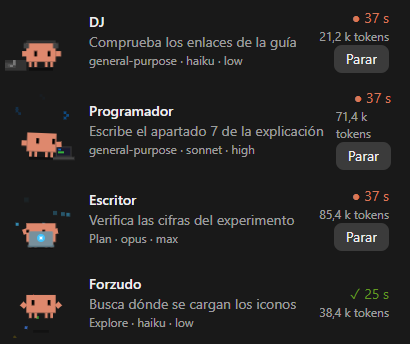
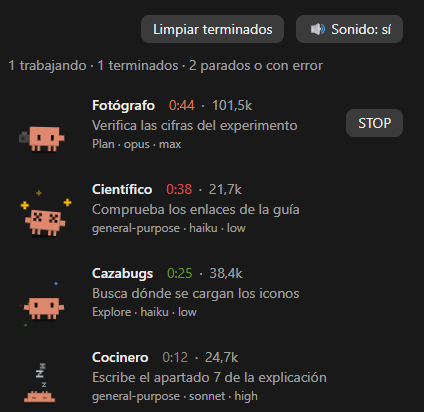
Equipo 0.4.1: fila más estrecha, con el tiempo como un cronómetro y los tokens en corto junto al nombre, botón STOP y captura nueva del panel

diff --git a/hooks/register.tsx b/hooks/register.tsx
@@ -42,16 +42,23 @@ const nombreDe = (id: string) => NOMBRES.get(id) ?? 'Clawd'
 const modeloCorto = (modelo: string) =>
   /opus/i.test(modelo) ? 'opus' : /sonnet/i.test(modelo) ? 'sonnet' : /haiku/i.test(modelo) ? 'haiku' : /fable/i.test(modelo) ? 'fable' : modelo
 
-const duracion = (ms: number) => {
-  const s = Math.max(0, Math.round(ms / 1000))
-  if (s < 60) return `${s} s`
-  const m = Math.floor(s / 60)
-  if (m < 60) return `${m} min ${String(s % 60).padStart(2, '0')} s`
-  return `${Math.floor(m / 60)} h ${String(m % 60).padStart(2, '0')} min`
+// An agent's time as a stopwatch reads it, short so the panel can stay narrow: «0:45», «12:05», «1:03:12».
+const cronometro = (ms: number) => {
+  const s = Math.max(0, Math.floor(ms / 1000))
+  const h = Math.floor(s / 3600)
+  const m = Math.floor((s % 3600) / 60)
+  const segundos = String(s % 60).padStart(2, '0')
+  return h > 0 ? `${h}:${String(m).padStart(2, '0')}:${segundos}` : `${m}:${segundos}`
 }
 
-const miles = (n: number) =>
-  n >= 1_000_000 ? `${(n / 1_000_000).toFixed(1).replace('.', ',')} M` : n >= 1000 ? `${(n / 1000).toFixed(1).replace('.', ',')} k` : String(n)
+// A token count in short: «850», «354,6k», «1,2M».
+const compacto = (n: number) =>
+  n >= 999_950 ? `${(n / 1_000_000).toFixed(1).replace('.', ',')}M` : n >= 1000 ? `${(n / 1000).toFixed(1).replace('.', ',')}k` : String(n)
+
+// Between an agent's name and its time, an em space, and around the dot before its tokens, en spaces: wider than plain
+// spaces, so the three stand apart, and no surface folds them.
+const ESPACIO = ' '
+const ANTES_TOKENS = ' · '
 
 type Uso = { input_tokens: number; output_tokens: number; cache_read_input_tokens: number; cache_creation_input_tokens: number }
 // As Claude Code counts an agent's tokens: what its last request carried and produced.
@@ -775,37 +782,46 @@ export const register: Register = on => {
     const otros = lista.length - trabajando - terminados
     const resumen = [`${trabajando} trabajando`, `${terminados} terminados`, ...(otros > 0 ? [`${otros} parados o con error`] : [])].join(' · ')
 
-    const fila = (a: Agente) => (
-      <Box key={`fila-${a.id}`} flexDirection="row" alignItems="center" gap="sm">
-        {Svg ? (
-          <Svg source={dibujo(a)} alt={nombreDe(a.profesion)} width={LADO_PANEL} height={LADO_PANEL} isInteractive={true} />
-        ) : (
-          <Text color={COLOR[a.estado]}>{MARCA[a.estado]}</Text>
-        )}
-        <Box flexDirection="column" flexGrow={1} flexShrink={1}>
-          <Text weight="medium" wrap="truncate-end">
-            {nombreDe(a.profesion)}
-          </Text>
-          <Text dimColor wrap="truncate-end">
-            {a.descripcion}
-          </Text>
-          <Text dimColor size="caption" wrap="truncate-end">
-            {[a.tipo, a.modelo, a.esfuerzo].filter(Boolean).join(' · ')}
-          </Text>
-        </Box>
-        <Box flexDirection="column" alignItems="flex-end">
-          <Text color={COLOR[a.estado]}>
-            {MARCA[a.estado]} {duracion((a.fin ?? ahora) - a.inicio)}
-          </Text>
-          <Text dimColor size="caption">
-            {tokensVistos(a, ahora) > 0 ? `${miles(tokensVistos(a, ahora))} tokens` : 'sin tokens aún'}
-          </Text>
+    // One agent: its Clawd; on the first line its name, its time in the colour of its state and its tokens; then its task;
+    // then its type, model and effort. On the right there is only a small stop button, while it works. Nothing else asks
+    // for width, so the panel can be as narrow as wanted, and each line is cut at its end, the tokens first. The time's
+    // figures are all of one width, so the line does not shake as the seconds pass. The Clawd's pose and the time's colour
+    // tell the state; on the terminal, which draws no SVG, the mark in the Clawd's place does.
+    const fila = (a: Agente) => {
+      const tokens = tokensVistos(a, ahora)
+      return (
+        <Box key={`fila-${a.id}`} flexDirection="row" alignItems="center" gap="sm">
+          {Svg ? (
+            <Svg source={dibujo(a)} alt={nombreDe(a.profesion)} width={LADO_PANEL} height={LADO_PANEL} isInteractive={true} />
+          ) : (
+            <Text color={COLOR[a.estado]}>{MARCA[a.estado]}</Text>
+          )}
+          <Box flexDirection="column" flexGrow={1} flexShrink={1}>
+            <Text wrap="truncate-end">
+              <Text weight="medium">{nombreDe(a.profesion)}</Text>
+              {ESPACIO}
+              <Text color={COLOR[a.estado]} tabular>
+                {cronometro((a.fin ?? ahora) - a.inicio)}
+              </Text>
+              {tokens > 0 ? (
+                <Text dimColor tabular>
+                  {`${ANTES_TOKENS}${compacto(tokens)}`}
+                </Text>
+              ) : null}
+            </Text>
+            <Text dimColor wrap="truncate-end">
+              {a.descripcion}
+            </Text>
+            <Text dimColor size="caption" wrap="truncate-end">
+              {[a.tipo, a.modelo, a.esfuerzo].filter(Boolean).join(' · ')}
+            </Text>
+          </Box>
           {a.estado === 'trabajando' && !a.workflow ? (
-            <Button key={`parar-${a.id}`} label="Parar" onPress={() => void (a.demo ? terminaDemo($, a.id, 'parado') : parar($, a.id))} />
+            <Button key={`parar-${a.id}`} label="STOP" onPress={() => void (a.demo ? terminaDemo($, a.id, 'parado') : parar($, a.id))} />
           ) : null}
         </Box>
-      </Box>
-    )
+      )
+    }
 
     const sueltos = lista.filter(a => !a.workflow)
     const orden = (x: Agente, y: Agente) =>
@@ -825,17 +841,23 @@ export const register: Register = on => {
       const ordenados = [...miembros].sort((x, y) => (x.workflow?.indice ?? 0) - (y.workflow?.indice ?? 0))
       return (
         <Box key={`wf-${runId}`} flexDirection="column" gap="xs" borderStyle="round" paddingX={1}>
-          <Box flexDirection="row" justifyContent="space-between" alignItems="center" gap="sm">
-            <Text weight="medium" wrap="truncate-end">
-              {nombre}
+          <Text wrap="truncate-end">
+            <Text weight="medium">{nombre}</Text>
+            {ESPACIO}
+            <Text dimColor={activos === 0} color={activos > 0 ? COLOR.trabajando : undefined} tabular>
+              {cronometro(fin - inicio)}
             </Text>
-            <Text dimColor>{duracion(fin - inicio)}</Text>
-          </Box>
+            {tokens > 0 ? (
+              <Text dimColor tabular>
+                {`${ANTES_TOKENS}${compacto(tokens)}`}
+              </Text>
+            ) : null}
+          </Text>
           <Text dimColor size="caption">
-            {`${activos} trabajando · ${miembros.length - activos} terminados · ${miles(tokens)} tokens`}
+            {`${activos} trabajando · ${miembros.length - activos} terminados`}
           </Text>
           {ordenados.map(fila)}
-          {activos > 0 ? <Button key={`parar-wf-${runId}`} label="Parar workflow" onPress={() => void parar($, runId)} /> : null}
+          {activos > 0 ? <Button key={`parar-wf-${runId}`} label="STOP workflow" onPress={() => void parar($, runId)} /> : null}
         </Box>
       )
     }

diff --git a/hooks/equipo.test.tsx b/hooks/equipo.test.tsx
@@ -32,12 +32,19 @@ test('un agente que arranca sale en el panel con un Clawd y una profesión', asy
   expect((await ui.find({ type: 'Text', text: NOMBRES })) !== undefined).toBe(true)
   expect((await ui.find({ type: 'Text', text: /Explore · haiku/ }))?.text).toBe('Explore · haiku')
   expect((await ui.find({ type: 'Svg' }))?.props.width).toBe(72)
+  // Beside the name, the time in the colour of the state, and no tokens until the agent's first request. On the right,
+  // only a small stop button: no icon but the Clawd.
+  expect((await ui.find({ type: 'Text', text: /^0:00$/ }))?.props.color).toBe('#D97757')
+  expect((await ui.find({ type: 'Text', text: /^ · / })) === undefined).toBe(true)
+  expect((await ui.find({ key: 'parar-a1' }))?.props.label).toBe('STOP')
+  expect((await ui.findAll({ type: 'Svg' })).length).toBe(1)
   await ui.unmount()
 
-  // The terminal draws no SVG: there the Clawd's place holds the agent's mark.
+  // The terminal draws no SVG: there the Clawd's place holds the agent's mark, and the time goes without an icon.
   const terminal = await $.ui.mount({ ...PANEL, surface: 'terminal' })
   expect((await terminal.find({ type: 'Text', text: /Busca dónde se cargan/ })) !== undefined).toBe(true)
   expect((await terminal.find({ type: 'Text', text: /^●$/ }))?.props.color).toBe('#D97757')
+  expect((await terminal.find({ type: 'Text', text: /^0:00$/ }))?.props.color).toBe('#D97757')
   await terminal.unmount()
 })
 
@@ -53,7 +60,9 @@ test('al terminar, la fila pasa a terminado', async ($, on) => {
   await $.turn.complete({ answer: 'hecho', durationMs: 5000, isAborted: false, turnId: 't2', agentId: 'a2', reason: 'answer' })
 
   const ui = await $.ui.mount({ ...PANEL, surface: 'desktop' })
-  expect((await ui.find({ type: 'Text', text: /^✓ / })) !== undefined).toBe(true)
+  // The time takes the green of a finished agent, and the stop button goes.
+  expect((await ui.find({ type: 'Text', text: /^0:00$/ }))?.props.color).toBe('#639922')
+  expect((await ui.find({ key: 'parar-a2' })) === undefined).toBe(true)
   expect((await ui.find({ type: 'Text', text: /0 trabajando · 1 terminados/ })) !== undefined).toBe(true)
   await ui.unmount()
 })
@@ -70,8 +79,41 @@ test('la demo llena el panel con cuatro agentes y terminan solos', async ($, on)
   expect((await ui.find({ type: 'Text', text: /^4 trabajando · 0 terminados$/ })) !== undefined).toBe(true)
   await reloj.advance(70_000)
   expect((await ui.find({ type: 'Text', text: /^0 trabajando · 3 terminados · 1 parados o con error$/ })) !== undefined).toBe(true)
-  expect((await ui.find({ type: 'Text', text: /142,8 k tokens/ })) !== undefined).toBe(true)
+  expect((await ui.find({ type: 'Text', text: /^ · 142,8k$/ })) !== undefined).toBe(true)
+  // The longest demo agent ran 62 seconds.
+  expect((await ui.find({ type: 'Text', text: /^1:02$/ })) !== undefined).toBe(true)
   await ui.unmount()
+})
+
+test('el tiempo de un agente se lee como un cronómetro, también pasada la hora, y sus tokens en corto', async ($, on) => {
+  const reloj = mock.clock(on, { now: 1_000_000 })
+  mock.env(on, { OS: 'Linux' })
+  on('ui.open', () => ({ value: { isPlaced: true } }))
+  on('agent.spawn', () => ({ model: 'claude-haiku-5-5', agentId: 'h1' }))
+  on('turn.step', async function* (_$, e) {
+    return {
+      turnId: e.turnId,
+      index: e.index,
+      answer: '',
+      toolUses: [],
+      stopReason: 'tool_use',
+      usage: { input_tokens: 4_000, output_tokens: 600, cache_read_input_tokens: 350_000, cache_creation_input_tokens: 0, model: 'claude-haiku-5-5' },
+    }
+  })
+
+  await $.agent.spawn({ prompt: 'Revisa', description: 'Revisa todo el capítulo', subagentType: 'general-purpose' })
+  // An hour, three minutes and twelve seconds later, its last request carried 354,600 tokens.
+  await reloj.advance(3_792_000)
+  for await (const _trozo of $.turn.step({ turnId: 'h1-t', index: 0, model: 'claude-haiku-5-5', messageCount: 3, agentId: 'h1' })) {
+    // The test's own answer streams nothing.
+  }
+
+  for (const surface of ['desktop', 'terminal'] as const) {
+    const ui = await $.ui.mount({ ...PANEL, surface })
+    expect((await ui.find({ type: 'Text', text: /^1:03:12$/ }))?.props.color).toBe('#D97757')
+    expect((await ui.find({ type: 'Text', text: /^ · 354,6k$/ })) !== undefined).toBe(true)
+    await ui.unmount()
+  }
 })
 
 // A store in memory, as the engine keeps the plugin's own, that the test can read back.

diff --git a/README.md b/README.md
@@ -15,7 +15,7 @@ Mod de Claude Code que abre un panel llamado «Equipo» al lado del chat. Cada a
 Es un proyecto de la comunidad, sin relación con Anthropic. Clawd es la mascota de Claude.
 
 <p align="center">
-  <img src="imagenes/panel.png" width="410" alt="El panel Equipo durante la demo, con cuatro agentes de mentira: tres trabajando, vestidos de su profesión, y uno que ya ha terminado">
+  <img src="imagenes/panel.png" width="424" alt="El panel Equipo durante la demo, con cuatro agentes de mentira: uno trabajando, vestido de su profesión y con su botón STOP, uno mareado porque ha fallado, uno celebrando porque ha terminado y uno dormido porque lo han parado; junto a cada nombre, su tiempo del color de su estado y sus tokens">
   <br>
   <img src="imagenes/pie.png" width="427" alt="El pie del panel, con barras de píxeles: el límite de uso de 5 horas al 41 %, el semanal al 78 %, el contexto al 54 % y a la caché le quedan 59 minutos">
 </p>
@@ -29,7 +29,7 @@ Es un proyecto de la comunidad, sin relación con Anthropic. Clawd es la mascota
 - Los agentes de un workflow se agrupan bajo el nombre del workflow, con su tiempo total y sus tokens.
 - El mismo Clawd aparece junto a la fila del chat donde se lanzó el agente.
 - El panel se abre solo cuando arranca un agente, y también con la orden `/equipo`, por ejemplo para ver el consumo cuando no hay agentes. En la app de escritorio, además, lo abre el botón «Clawds», que está junto al nombre del modelo, en la parte de abajo del cuadro de texto, y si el panel ya se ve, lo cierra.
-- Cada agente suelto tiene un botón «Parar», y cada workflow, «Parar workflow».
+- Cada agente suelto tiene un botón «STOP» para pararlo, y cada workflow, uno «STOP workflow».
 
 Los tokens de cada agente se cuentan como en el resumen de Claude Code: lo que ocupaba su última petición al modelo, contexto y respuesta.
 
